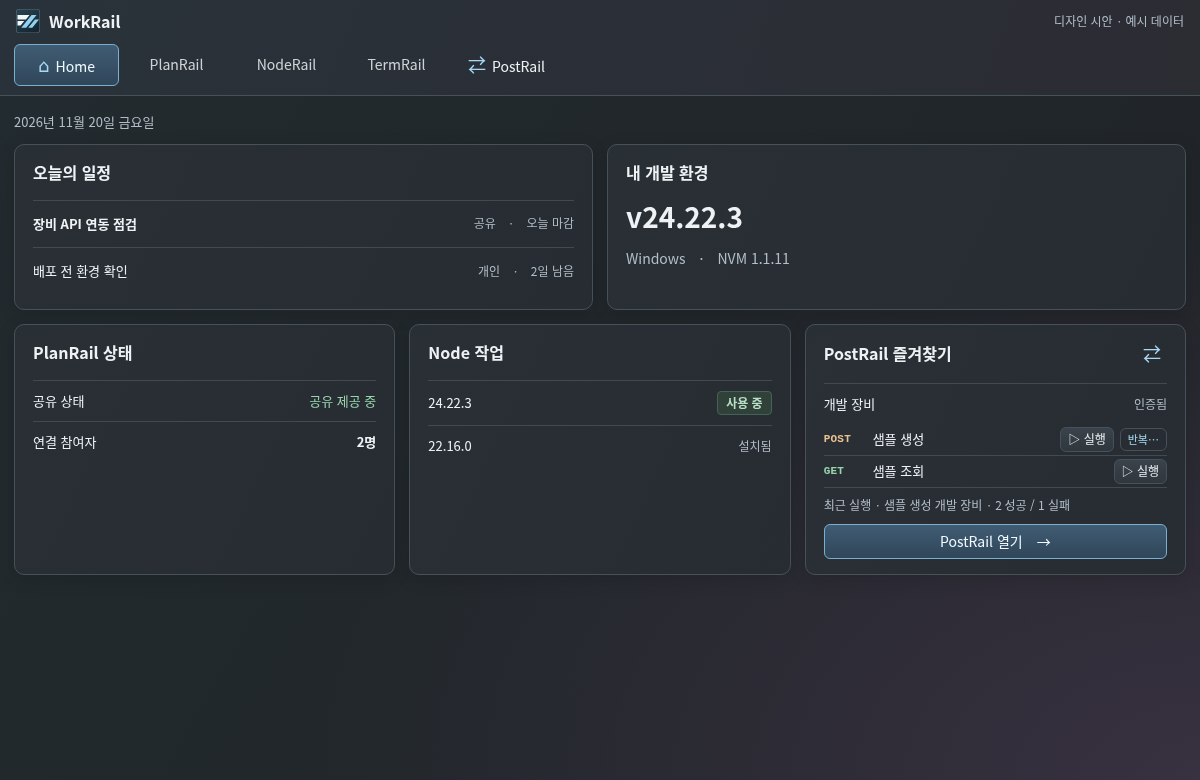
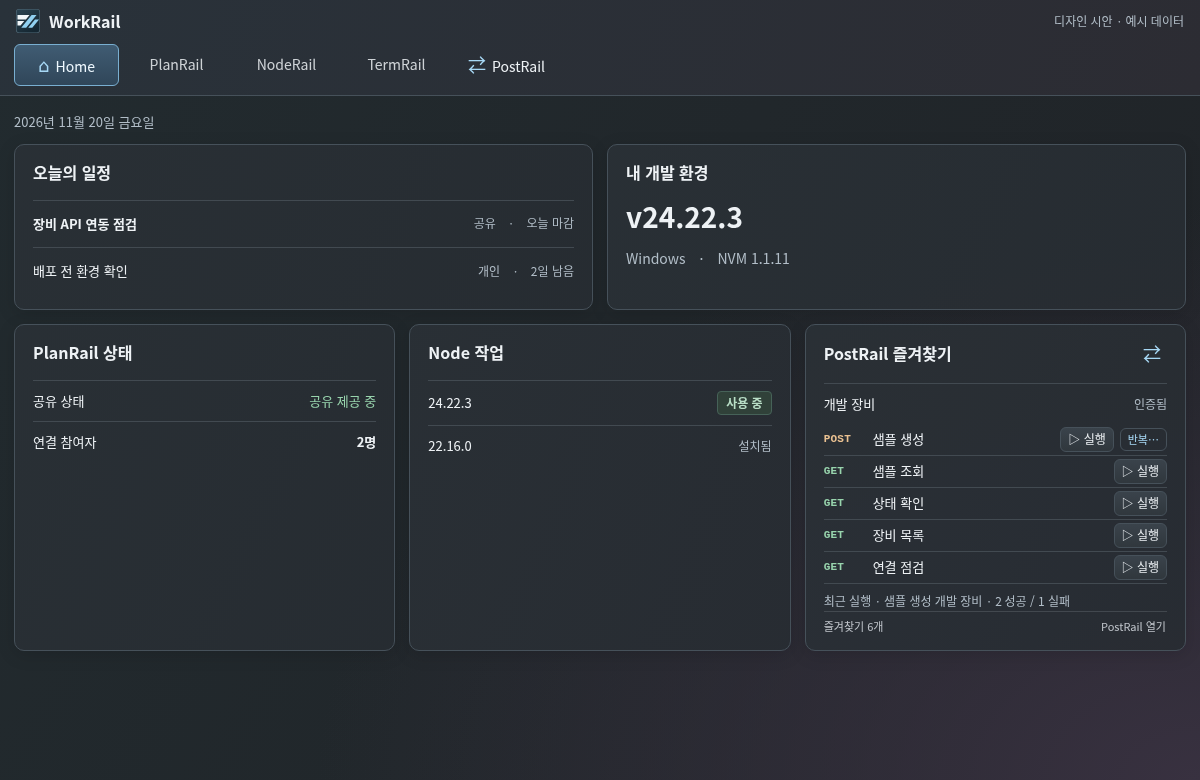
Refine PostRail footer log and compact Home favorites

Changed region(s): [[0.6783, 0.6154, 0.9867, 0.8308], [0.925, 0.8, 0.9558, 0.8308]]

diff --git a/docs/design/mockups/postrail-workspace.html b/docs/design/mockups/postrail-workspace.html
@@ -6,7 +6,7 @@
 <title>WorkRail · PostRail 작업 화면</title>
 <style>
 :root{color-scheme:dark;font:14px/1.55 "Segoe UI","Noto Sans CJK KR",sans-serif;color:#eef2f5;--line:#46515a;--sub:#b2bec8;--sky:#a7d8f5;--green:#98d4ad;--amber:#eac191;--surface:linear-gradient(115deg,#2a3036ed,#272c32ed);--mono:Consolas,"Liberation Mono",monospace}
-*{box-sizing:border-box}body{margin:0;background:radial-gradient(ellipse at 100% 100%,#383140,transparent 52%),linear-gradient(120deg,#222b2f,#202327);min-height:100vh}button,input,select,textarea{font:inherit;color:inherit}button,select,input{border:1px solid var(--line);border-radius:6px;background:#232a30;padding:6px 10px}button,select{cursor:pointer}button{background:linear-gradient(#3a434b,#30373d)}button:hover{border-color:#788d9c}button:disabled{opacity:.55;cursor:default}button:focus-visible,summary:focus-visible,input:focus-visible,textarea:focus-visible,select:focus-visible{outline:2px solid var(--sky);outline-offset:2px}h1,h2,h3,p,pre{margin:0}h1{font-size:21px;letter-spacing:-.6px}h2{font-size:16px}h3{font-size:14px}small,.sub{color:var(--sub)}small{font-size:12px}[hidden]{display:none!important}.row,.brand,nav,.item,.folder summary,.title,.foot,.endpoint,.tabs,.meta,.tools{display:flex;align-items:center;gap:9px}.apart{justify-content:space-between}.auto{margin-left:auto}.brand{padding:9px 16px;font-size:16px;font-weight:700}.brand img{width:24px;height:24px}.demo{font-size:12px;color:var(--sub);font-weight:400}header{background:linear-gradient(110deg,#29323a,#2c2c33);border-bottom:1px solid var(--line)}nav{padding:1px 14px 9px;gap:5px;overflow:auto}nav button{border:1px solid transparent;background:none;min-width:105px;min-height:36px;white-space:nowrap}nav button:disabled{opacity:.84}nav button.active,.primary{background:linear-gradient(#405c73,#304659);border:1px solid #79afd1;color:#eff9ff}.mark{color:var(--sky);font-size:18px;padding-right:6px}main{padding:14px;max-width:1620px;margin:auto}#post{display:grid;grid-template-columns:235px minmax(0,1fr);gap:14px;min-height:calc(100vh - 143px)}aside,.panel,dialog{border:1px solid var(--line);border-radius:10px;background:var(--surface);box-shadow:0 4px 18px #0002}aside{align-self:start;padding:14px 11px}.env{width:100%;margin:8px 0 15px}.asidehead{border-top:1px solid var(--line);padding-top:14px;margin-bottom:8px}.ghost,.more{background:transparent;border-color:transparent;color:var(--sub);padding:3px 5px}.ghost{color:var(--sky);font-size:12px}.folder{border-top:1px solid #3b444d}.folder summary{padding:9px 1px;cursor:pointer;list-style:none;font-size:13px;font-weight:650}.folder summary:before{content:'▸';color:var(--sub)}.folder[open]>summary:before{content:'▾'}.folder summary small{font-weight:400}.item{padding:2px 3px;border:1px solid transparent;border-radius:5px;margin:1px 0 4px;gap:1px}.item.sel{background:#314351;border-color:#506777}.item button:first-child{flex:1;min-width:0;text-align:left;background:none;border:0;font-size:13px;padding:5px 2px;overflow-wrap:anywhere}.verb{display:inline-block;min-width:46px;font:700 11px/1.6 var(--mono);letter-spacing:.25px;color:var(--amber)}.get,.good{color:var(--green)}.delete,.bad{color:#f0a9a4}.workspace{display:flex;flex-direction:column;gap:12px;min-width:0}.panel{overflow:hidden}.compose,.pad{padding:15px 18px}.pathline{color:var(--sub);font-size:12px;margin-bottom:3px}.endpoint{margin:12px 0 9px}.url{min-width:0;flex:1;display:flex;align-items:center;padding:4px 8px;background:#1f262d;border:1px solid #576571;border-radius:6px}.url input{border:0;background:transparent;font:14px var(--mono);width:100%;padding:5px 0}.send{min-width:88px;font-weight:650}.tools,.meta{color:var(--sub);font-size:12px;flex-wrap:wrap}.tools label{display:inline-flex;align-items:center;gap:5px}.tools input[type=text]{width:92px;padding:3px 5px}.tools input[type=checkbox]{accent-color:#90c5e9}.title{border-bottom:1px solid var(--line);padding:10px 16px;background:#30363d}.tabs{gap:17px;padding:0 16px;border-bottom:1px solid #414a52}.tabs button{border:0;background:none;border-radius:0;padding:7px 0;color:var(--sub);font-size:12px}.tabs .active{box-shadow:inset 0 -2px var(--sky);color:#fff}.editor{background:#20262c;min-height:100px;padding:14px 16px}.editor textarea,pre{display:block;width:100%;font:14px/1.7 var(--mono);background:transparent;border:0;color:#c4ddda;resize:vertical;overflow-wrap:anywhere;white-space:pre-wrap}.editor textarea{min-height:82px}.pill{font:600 12px/1.55 "Segoe UI",sans-serif;padding:2px 8px;border:1px solid #466258;border-radius:4px;color:#b8dec6;background:#304139}.foot{position:sticky;bottom:0;z-index:2;padding:6px 15px;min-height:44px;background:#282f35;border-top:1px solid var(--line);font-size:12px}.foot button{font-size:12px}.logarea{max-height:180px;overflow:auto;background:#20262c;padding:10px 16px}.logline{display:block;width:100%;font:13px/1.7 var(--mono);text-align:left;white-space:pre-wrap;border:0;background:none;color:#b6c9d4}.logline[aria-pressed=true]{color:#e6f6ff;background:#354752}.home-grid{display:grid;grid-template-columns:repeat(6,minmax(0,1fr));gap:14px}.big{grid-column:span 3}.widget{grid-column:span 2}.cardhead{padding-bottom:15px}.listrow{display:flex;align-items:center;justify-content:space-between;gap:10px;border-top:1px solid #424a51;padding:10px 0;font-size:13px}.big .listrow{padding:13px 0}.cardbtn{width:100%;margin-top:9px}.date{color:var(--sub);font-size:13px;margin:2px 0 12px}.version{font-size:28px;font-weight:600;margin:10px 0}.widget h2,.big h2{font-size:16px}dialog{padding:0;width:min(520px,94vw);background:#292f35;color:#f2f4f6}dialog::backdrop{background:#11171ba8}.dialogbody{padding:16px 18px;max-height:70vh;overflow:auto}.formrow{display:grid;gap:5px;margin:8px 0}.formrow input,select{min-width:0}.dialogfoot{display:flex;justify-content:flex-end;gap:7px;border-top:1px solid var(--line);padding:11px 16px}.varrow{display:grid;grid-template-columns:1fr 1.2fr auto;gap:6px;margin:6px 0}.varrow input{min-width:0;width:100%}.danger{color:#f1aaa6}.note{color:var(--sub);font-size:12px;margin-top:8px}
+*{box-sizing:border-box}body{margin:0;background:radial-gradient(ellipse at 100% 100%,#383140,transparent 52%),linear-gradient(120deg,#222b2f,#202327);min-height:100vh}button,input,select,textarea{font:inherit;color:inherit}button,select,input{border:1px solid var(--line);border-radius:6px;background:#232a30;padding:6px 10px}button,select{cursor:pointer}button{background:linear-gradient(#3a434b,#30373d)}button:hover{border-color:#788d9c}button:disabled{opacity:.55;cursor:default}button:focus-visible,summary:focus-visible,input:focus-visible,textarea:focus-visible,select:focus-visible{outline:2px solid var(--sky);outline-offset:2px}h1,h2,h3,p,pre{margin:0}h1{font-size:21px;letter-spacing:-.6px}h2{font-size:16px}h3{font-size:14px}small,.sub{color:var(--sub)}small{font-size:12px}[hidden]{display:none!important}.row,.brand,nav,.item,.folder summary,.title,.foot,.endpoint,.tabs,.meta,.tools{display:flex;align-items:center;gap:9px}.apart{justify-content:space-between}.auto{margin-left:auto}.brand{padding:9px 16px;font-size:16px;font-weight:700}.brand img{width:24px;height:24px}.demo{font-size:12px;color:var(--sub);font-weight:400}header{background:linear-gradient(110deg,#29323a,#2c2c33);border-bottom:1px solid var(--line)}nav{padding:1px 14px 9px;gap:5px;overflow:auto}nav button{border:1px solid transparent;background:none;min-width:105px;min-height:36px;white-space:nowrap}nav button:disabled{opacity:.84}nav button.active,.primary{background:linear-gradient(#405c73,#304659);border:1px solid #79afd1;color:#eff9ff}.mark{color:var(--sky);font-size:18px;padding-right:6px}main{padding:14px;max-width:1620px;margin:auto}#post{display:grid;grid-template-columns:235px minmax(0,1fr);gap:14px;min-height:calc(100vh - 143px)}aside,.panel,dialog{border:1px solid var(--line);border-radius:10px;background:var(--surface);box-shadow:0 4px 18px #0002}aside{align-self:start;padding:14px 11px}.env{width:100%;margin:8px 0 15px}.asidehead{border-top:1px solid var(--line);padding-top:14px;margin-bottom:8px}.ghost,.more{background:transparent;border-color:transparent;color:var(--sub);padding:3px 5px}.ghost{color:var(--sky);font-size:12px}.folder{border-top:1px solid #3b444d}.folder summary{padding:9px 1px;cursor:pointer;list-style:none;font-size:13px;font-weight:650}.folder summary:before{content:'▸';color:var(--sub)}.folder[open]>summary:before{content:'▾'}.folder summary small{font-weight:400}.item{padding:2px 3px;border:1px solid transparent;border-radius:5px;margin:1px 0 4px;gap:1px}.item.sel{background:#314351;border-color:#506777}.item button:first-child{flex:1;min-width:0;text-align:left;background:none;border:0;font-size:13px;padding:5px 2px;overflow-wrap:anywhere}.verb{display:inline-block;min-width:46px;font:700 11px/1.6 var(--mono);letter-spacing:.25px;color:var(--amber)}.get,.good{color:var(--green)}.delete,.bad{color:#f0a9a4}.workspace{display:flex;flex-direction:column;gap:12px;min-width:0}.panel{overflow:hidden}.compose,.pad{padding:15px 18px}.pathline{color:var(--sub);font-size:12px;margin-bottom:3px}.endpoint{margin:12px 0 9px}.url{min-width:0;flex:1;display:flex;align-items:center;padding:4px 8px;background:#1f262d;border:1px solid #576571;border-radius:6px}.url input{border:0;background:transparent;font:14px var(--mono);width:100%;padding:5px 0}.send{min-width:88px;font-weight:650}.tools,.meta{color:var(--sub);font-size:12px;flex-wrap:wrap}.tools label{display:inline-flex;align-items:center;gap:5px}.tools input[type=text]{width:92px;padding:3px 5px}.tools input[type=checkbox]{accent-color:#90c5e9}.title{border-bottom:1px solid var(--line);padding:10px 16px;background:#30363d}.tabs{gap:17px;padding:0 16px;border-bottom:1px solid #414a52}.tabs button{border:0;background:none;border-radius:0;padding:7px 0;color:var(--sub);font-size:12px}.tabs .active{box-shadow:inset 0 -2px var(--sky);color:#fff}.editor{background:#20262c;min-height:100px;padding:14px 16px}.editor textarea,pre{display:block;width:100%;font:14px/1.7 var(--mono);background:transparent;border:0;color:#c4ddda;resize:vertical;overflow-wrap:anywhere;white-space:pre-wrap}.editor textarea{min-height:82px}.pill{font:600 12px/1.55 "Segoe UI",sans-serif;padding:2px 8px;border:1px solid #466258;border-radius:4px;color:#b8dec6;background:#304139}.foot{position:sticky;bottom:0;z-index:2;padding:6px 15px;min-height:44px;background:#282f35;border-top:1px solid var(--line);font-size:12px}.foot button{font-size:12px}.home-grid{display:grid;grid-template-columns:repeat(6,minmax(0,1fr));gap:14px}.big{grid-column:span 3}.widget{grid-column:span 2}.cardhead{padding-bottom:15px}.listrow{display:flex;align-items:center;justify-content:space-between;gap:10px;border-top:1px solid #424a51;padding:10px 0;font-size:13px}.big .listrow{padding:13px 0}.cardbtn{width:100%;margin-top:9px}.date{color:var(--sub);font-size:13px;margin:2px 0 12px}.version{font-size:28px;font-weight:600;margin:10px 0}.widget h2,.big h2{font-size:16px}dialog{padding:0;width:min(520px,94vw);background:#292f35;color:#f2f4f6}dialog::backdrop{background:#11171ba8}.dialogbody{padding:16px 18px;max-height:70vh;overflow:auto}.formrow{display:grid;gap:5px;margin:8px 0}.formrow input,select{min-width:0}.dialogfoot{display:flex;justify-content:flex-end;gap:7px;border-top:1px solid var(--line);padding:11px 16px}.varrow{display:grid;grid-template-columns:1fr 1.2fr auto;gap:6px;margin:6px 0}.varrow input{min-width:0;width:100%}.danger{color:#f1aaa6}.note{color:var(--sub);font-size:12px;margin-top:8px}
 @media(max-width:800px){#post{grid-template-columns:185px minmax(0,1fr)}.widget{grid-column:span 3}}@media(max-width:620px){#post{grid-template-columns:1fr}aside{max-height:210px;overflow:auto}.big,.widget{grid-column:1/-1}.endpoint{flex-wrap:wrap}.url{flex-basis:100%}.foot{flex-wrap:wrap}.foot .sub{display:none}.varrow{grid-template-columns:1fr}.meta{gap:3px}nav button{min-width:90px}}
 
 /* PostRail uses the available window height for the two editors. */
@@ -44,7 +44,7 @@ header{flex:none}
 .favorite-row .verb{min-width:43px}
 .favorite-row button{margin-left:auto;padding:2px 7px;font-size:12px}
 .favorite-row .repeat-home{margin-left:0;color:var(--sky);background:transparent;border-color:var(--line);font-size:11px}
-#favorites{max-height:170px;overflow:auto}
+#favorites{min-width:0}
 .home-result{margin-top:8px;font-size:12px;color:var(--sub)}
 /* Match the PlanRail status shell and its dark glass theme. */
 .foot{flex:none;display:flex;align-items:center;flex-wrap:nowrap;gap:10px;min-height:39px;padding:4px 14px;border-top:1px solid var(--rim);background:var(--glass);color:var(--muted);font-size:12px;--rim:#b4bfc449;--glass:rgba(43,46,49,.5);--muted:#c0c5cb}
@@ -52,9 +52,28 @@ header{flex:none}
 .foot button:hover,.foot button[aria-expanded=true]{color:var(--sky)}
 .foot svg{width:16px;height:16px;fill:none;stroke:currentColor;stroke-width:1.6;stroke-linecap:round;stroke-linejoin:round}
 #footStatus{white-space:nowrap;overflow:hidden;text-overflow:ellipsis}
-@media(min-width:621px){body:has(#post:not([hidden])){height:100dvh}#post{overflow:auto}.workspace:has(#drawer:not([hidden])){min-height:520px}}
+@media(min-width:621px){body:has(#post:not([hidden])){height:100dvh}#post{overflow:auto}}
 @media(max-width:620px){#post{grid-template-columns:1fr}.code-pane{min-height:195px}.pane-bar{flex-wrap:wrap;gap:4px 9px}.foot{margin-top:auto}}
 @media(max-width:510px){.foot{gap:6px}}
+
+/* Expanded content and the status strip belong to the same footer. */
+#footer{position:sticky;bottom:0;z-index:2;flex:none}
+#footer .foot{position:static}
+#drawer{background:#292f34;border-top:1px solid #b4bfc449;color:#c0c5cb}
+.drawer-head{display:flex;align-items:center;flex-wrap:wrap;gap:4px 9px;padding:4px 14px;font-size:12px}
+.drawer-head h2{font-size:13px}
+.drawer-head button{padding:1px 5px}
+#log{display:block;margin:0;border:0;border-radius:0;border-top:1px solid #b4bfc430;padding:8px 14px;width:100%;height:clamp(76px,14vh,150px);resize:none;background:#23292e;color:#d1dbe2;font:13px/1.6 var(--mono);white-space:pre;overflow:auto}
+#iterationForm{display:flex;align-items:center;gap:5px}
+#iterationForm input{width:6em;padding:2px 5px;font-size:12px}
+#footer #toggleLog svg{transition:transform .15s}
+#footer #toggleLog[aria-expanded=true] svg{transform:rotate(180deg)}
+@media(prefers-reduced-motion:reduce){#footer #toggleLog svg{transition:none}}
+body:has(#post:not([hidden])){height:100dvh}
+#post{overflow:auto}
+.workrail-widget-meta{display:flex;justify-content:space-between;align-items:baseline;flex-wrap:wrap;gap:4px 8px;padding-top:6px;border-top:1px solid #b4bfc430;color:#c0c5cb;font-size:11px}
+.workrail-link{width:fit-content;justify-self:end;margin:0;padding:0 1px;border:0;background:transparent;color:inherit;font-size:inherit;text-align:start}
+.workrail-link:hover:enabled{background:transparent;color:#f1f2f3;text-decoration:underline}
 </style>
[1 lines of base64/hex data omitted]
 <main id="post">
@@ -65,15 +84,17 @@ header{flex:none}
 <div class="tools"><label id="repeatControl"><input type="checkbox" id="repeat">반복 보내기</label><label id="countControl" hidden>횟수 <input type="text" inputmode="numeric" id="count" value="10"></label><span id="range"></span><button id="saveEdits" class="ghost auto" hidden>변경 저장</button></div></div>
 <div class="panel code-pane"><div class="pane-bar"><h2>요청</h2><div id="reqTabs" class="tabs"><button data-tab="0" class="active">JSON 본문</button><button data-tab="1">헤더</button><button data-tab="2">인증</button></div><small id="auth" class="auto"></small></div><div class="editor" id="reqContent"></div></div>
 <div class="panel code-pane"><div class="pane-bar"><h2>응답</h2><div class="tabs"><button id="bodyTab" class="active">본문</button><button id="hdrTab">헤더</button></div><small class="auto" id="responseOwner"></small><span id="status" class="good"></span></div><div class="editor"><pre id="response"></pre></div></div>
-<section id="drawer" class="panel" hidden><div class="title"><h2>회차별 결과</h2><small id="pageNumber" class="auto"></small><button id="prev" class="ghost">이전</button><button id="next" class="ghost">다음</button><button id="closeLog" aria-label="결과 닫기" class="more">×</button></div><div class="logarea" id="log"></div></section>
 </section></main>
-<footer class="foot" id="footer"><span class="good">●</span><span id="footStatus"></span><button id="toggleLog" class="auto" aria-expanded="false"><svg aria-hidden="true" viewBox="0 0 24 24"><path d="M8 6h12M8 12h12M8 18h12M4 6h.1M4 12h.1M4 18h.1"/></svg>회차별 결과</button><button id="manage"><svg aria-hidden="true" viewBox="0 0 24 24"><path d="M3 7h5m4 0h9M3 17h10m4 0h4"/><circle cx="10" cy="7" r="2"/><circle cx="15" cy="17" r="2"/></svg>환경 관리</button></footer>
+<footer id="footer">
+<section id="drawer" hidden aria-labelledby="drawerLabel"><div class="drawer-head"><h2 id="drawerLabel">회차별 결과</h2><small id="pageNumber"></small><button id="prev" class="ghost">이전</button><button id="next" class="ghost">다음</button><form id="iterationForm" class="auto"><label for="iteration">회차</label><input id="iteration" type="text" inputmode="numeric" required><button type="submit" class="ghost">응답 보기</button></form></div>
+<textarea id="log" aria-label="회차별 결과 로그" readonly wrap="off" spellcheck="false"></textarea></section>
+<div class="foot"><span class="good">●</span><span id="footStatus"></span><button id="toggleLog" aria-controls="drawer" class="auto" aria-expanded="false"><svg aria-hidden="true" viewBox="0 0 24 24"><path d="m5 15 7-7 7 7"/></svg>회차별 결과</button><button id="manage"><svg aria-hidden="true" viewBox="0 0 24 24"><path d="M3 7h5m4 0h9M3 17h10m4 0h4"/><circle cx="10" cy="7" r="2"/><circle cx="15" cy="17" r="2"/></svg>환경 관리</button></div></footer>
 <main id="home" hidden><div class="date">2026년 11월 20일 금요일</div><div class="home-grid">
 <section class="big panel pad"><h2 class="cardhead">오늘의 일정</h2><div class="listrow"><b>장비 API 연동 점검</b><small>공유　·　오늘 마감</small></div><div class="listrow">배포 전 환경 확인<small>개인　·　2일 남음</small></div></section>
 <section class="big panel pad"><h2>내 개발 환경</h2><p class="version">v24.22.3</p><p class="sub">Windows　·　NVM 1.1.11</p></section>
 <section class="widget panel pad"><h2 class="cardhead">PlanRail 상태</h2><div class="listrow">공유 상태<span class="good">공유 제공 중</span></div><div class="listrow">연결 참여자<b>2명</b></div></section>
 <section class="widget panel pad"><h2 class="cardhead">Node 작업</h2><div class="listrow">24.22.3<span class="pill">사용 중</span></div><div class="listrow">22.16.0<small>설치됨</small></div></section>
-<section class="widget panel pad"><div class="row apart cardhead"><h2>PostRail 즐겨찾기</h2><span class="mark" aria-hidden="true">⇄</span></div><div class="listrow"><span id="homeEnv"></span><small id="homeAuth"></small></div><div id="favorites"></div><p class="home-result" role="status"><span id="homeLast"></span> <span id="homeCode"></span></p><button class="cardbtn primary" id="openPost">PostRail 열기　→</button></section></div></main>
+<section class="widget panel pad"><div class="row apart cardhead"><h2>PostRail 즐겨찾기</h2><span class="mark" aria-hidden="true">⇄</span></div><div class="listrow"><span id="homeEnv"></span><small id="homeAuth"></small></div><div id="favorites"></div><p class="home-result" role="status"><span id="homeLast"></span> <span id="homeCode"></span></p><div class="workrail-widget-meta"><span id="favCount"></span><button type="button" class="workrail-link" id="openPost">PostRail 열기</button></div></section></div></main>
 <dialog id="dialog"><div class="title"><h2 id="dialogTitle"></h2><button class="more auto" id="closeDialog" aria-label="닫기">×</button></div><div id="dialogBody" class="dialogbody"></div><div id="actions" class="dialogfoot"></div></dialog>
 <script>
 const $ = id => document.getElementById(id);
@@ -83,8 +104,8 @@ let groups = [group('샘플 API'),group('장비 상태',false),loose];
 function request(name,method,path,folder) {
   return {name,method,url:'${deviceUrl}'+path,folder,index:1n,body:method==='POST'?JSON.stringify({name:'test_${index}',site:'${site}',enabled:true},null,2):''};
 }
-let requests = [request('샘플 생성','POST','/api/samples',groups[0]),request('샘플 조회','GET','/api/samples',groups[0]),request('샘플 삭제','DELETE','/api/samples/42',groups[0]),request('상태 확인','GET','/health',groups[1])];
-requests[0].favorite=true;requests[1].favorite=true;
+let requests = [request('샘플 생성','POST','/api/samples',groups[0]),request('샘플 조회','GET','/api/samples',groups[0]),request('샘플 삭제','DELETE','/api/samples/42',groups[0]),request('상태 확인','GET','/health',groups[1]),request('장비 목록','GET','/devices',groups[1]),request('연결 점검','GET','/ready',groups[1]),request('장비 버전','GET','/version',groups[1])];
+for(const r of requests)r.favorite=r.method!=='DELETE';
 let current = requests[0], requestTab=0, responseHeaders=false;
 const drafts=new WeakMap();
 function values(r){return drafts.get(r)??r}
@@ -100,7 +121,19 @@ const environments = new Map(['개발 장비','QA 장비'].map((name,i)=>[name,{
 const env = () => environments.get($('env').value);
 // Example of a just-finished batch. Subsequent sends only produce local fixture results.
 let run={name:'샘플 생성',env:'개발 장비',method:'POST',start:1n,count:3n,indexed:true,example:true};
+const logPageSize=100n;
 let selected=3n,page=0n;
+function renderLog(){
+  const begin=page*logPageSize+1n;
+  const end=begin+logPageSize-1n<run.count?begin+logPageSize-1n:run.count;
+  const lines=[];
+  for(let i=begin;i<=end;i++)lines.push(i+'회　 '+code(i)+(run.indexed?'　 test_'+(run.start+i-1n):''));
+  const log=$('log');
+  const text=lines.join('\n');
+  if(log.value!==text){log.value=text;log.scrollTop=0}
+  $('pageNumber').textContent=begin+'–'+end+' / '+run.count;
+  $('prev').disabled=page===0n;$('next').disabled=end===run.count;
+}
 current.index=4n;
 function node(tag,txt,cls) {
   const result=document.createElement(tag);
@@ -254,7 +287,9 @@ function homeRepeat(r) {
 }
 function favorites() {
   const list=$('favorites');list.replaceChildren();
-  for(const r of requests.filter(r=>r.favorite)){
+  const saved=groups.flatMap(g=>requests.filter(r=>r.folder===g&&r.favorite));
+  $('favCount').textContent='즐겨찾기 '+saved.length+'개';
+  for(const r of saved.slice(0,5)){
     const row=node('div',undefined,'favorite-row');
     const play=button('▷ 실행',()=>sendRequest(r,1n));play.setAttribute('aria-label',r.name+' 즉시 실행');
     row.append(node('b',r.method,'verb '+r.method.toLowerCase()),node('span',r.name),play);
@@ -275,13 +310,7 @@ function results() {
   const resultName='test_'+(run.start+selected-1n);
   const content=status.startsWith('4')?{message:'이미 등록된 샘플입니다.'}:run.method==='GET'?[{name:'sample'}]:run.indexed?{name:resultName,created:true}:{created:true};
   $('response').textContent=responseHeaders?(status.startsWith('204')?'응답 헤더 없음':'Content-Type: application/json'):status.startsWith('204')?'응답 본문 없음':JSON.stringify(content,null,2);
-  const begin=page*5n+1n,end=begin+4n<run.count?begin+4n:run.count;
-  $('pageNumber').textContent=begin+'–'+end+' / '+run.count;$('prev').disabled=page===0n;$('next').disabled=end===run.count;
-  $('log').replaceChildren();
-  for(let i=begin;i<=end;i++){
-    const b=button(i+'회　 '+code(i)+(run.indexed?'　 test_'+(run.start+i-1n):''),()=>{selected=i;results()},'logline');
-    b.setAttribute('aria-pressed',String(i===selected));$('log').append(b);
-  }
+  if(!$('drawer').hidden)renderLog();
   $('footStatus').textContent='실행 완료　·　'+run.count+'회'+(run.example?'　·　실패 1건':'');
   $('homeEnv').textContent=$('env').value;$('homeAuth').textContent=env().logged?'인증됨':'로그인 필요';
   favorites();$('homeLast').textContent='최근 실행 · '+run.name;$('homeCode').textContent=run.env+' · '+(run.example?'2 성공 / 1 실패':run.count+'회 · '+code(run.count));
@@ -300,9 +329,9 @@ function sendRequest(r,n,input=r){
   // A change of environment never transfers the previous environment's login state.
   env().logged=true;run={name:r.name,env:$('env').value,method:r.method,count:n,start:r.index,indexed:indexUsed(r,input.body),example:false};
   if(run.indexed)r.index+=run.count;
-  selected=run.count;page=(selected-1n)/5n;responseHeaders=false;draw();
+  selected=run.count;$('iteration').value=selected;$('iteration').setCustomValidity('');page=(selected-1n)/logPageSize;responseHeaders=false;draw();
 }
-function drawer(show){$('drawer').hidden=!show;$('toggleLog').setAttribute('aria-expanded',String(show));if(show)$('drawer').scrollIntoView({block:'nearest'})}
+function drawer(show){$('drawer').hidden=!show;$('toggleLog').setAttribute('aria-expanded',String(show));if(show){$('iteration').value=selected;renderLog()}else{$('log').value='';$('toggleLog').focus()}}
 function showHome(home){
   $('home').hidden=!home;$('post').hidden=home;$('footer').hidden=home;$('postTab').classList.toggle('active',!home);$('homeTab').classList.toggle('active',home);window.scrollTo(0,0);
 }
@@ -311,8 +340,17 @@ $('saveEdits').onclick=()=>{Object.assign(current,drafts.get(current));drafts.de
 $('url').oninput=e=>{if(current)edit('url',e.target.value)};$('repeat').onchange=range;$('count').oninput=range;$('send').onclick=()=>sendRequest(current,count(),values(current));
 $('reqTabs').onclick=e=>{if(e.target.dataset.tab!==undefined){requestTab=Number(e.target.dataset.tab);requestPane()}};
 $('bodyTab').onclick=()=>{responseHeaders=false;results()};$('hdrTab').onclick=()=>{responseHeaders=true;results()};
-$('toggleLog').onclick=()=>drawer($('drawer').hidden);$('closeLog').onclick=()=>drawer(false);
-$('prev').onclick=()=>{page--;results()};$('next').onclick=()=>{page++;results()};
+$('toggleLog').onclick=()=>drawer($('drawer').hidden);
+$('prev').onclick=()=>{page--;renderLog()};$('next').onclick=()=>{page++;renderLog()};
+$('iterationForm').onsubmit=e=>{
+  e.preventDefault();const input=$('iteration'),value=input.value.trim();
+  const n=/^\d+$/.test(value)?BigInt(value):0n;
+  input.setCustomValidity(n<1n||n>run.count?'1~'+run.count+' 사이의 회차를 입력하세요.':'');
+  if(!input.reportValidity())return;
+  selected=n;page=(n-1n)/logPageSize;results();
+};
+$('iteration').oninput=e=>e.target.setCustomValidity('');
+$('drawer').onkeydown=e=>{if(e.key==='Escape')drawer(false)};
 $('homeTab').onclick=()=>showHome(true);$('postTab').onclick=$('openPost').onclick=()=>showHome(false);
 draw();showHome(location.hash==='#home');
 </script></html>

diff --git a/docs/design/postrail-workspace.md b/docs/design/postrail-workspace.md
@@ -7,13 +7,17 @@
 1. 왼쪽에서 환경과 저장한 요청을 고른다. 그룹 이름을 누르면 접거나 펼친다. 그룹 옆 메뉴에서는 이름 수정·삭제, 요청 옆 메뉴에서는 이름·URL 수정, 그룹 이동·삭제가 가능하다. 한 단계 그룹과 미분류를 제안한다. 그룹을 지우면 소속 요청은 미분류로 이동하고, 개별 요청 삭제는 이름을 표시해 확인한다. 그룹 이동·이름 수정으로 요청 고유 번호나 다음 인덱스가 달라지지 않는다.
 2. POST도 기본 버튼은 **보내기**다. 한 번 보내려면 횟수를 입력할 필요가 없다. POST에서 **반복 보내기**를 켰을 때만 양의 정수를 입력하고 ‘N회 보내기’를 사용한다. 반복을 끄면 한 건만 발송한다. 인덱스 있는 단건도 번호를 사용한다. GET과 DELETE에는 반복 옵션이 없다.
 3. URL 아래의 전체 가로 공간에서 요청 헤더·본문·인증을 편집한다. 응답은 바로 아래에서 본문·헤더를 전환한다. 응답 상단에는 실제 실행한 요청명·환경·선택된 회차를 표시해 편집기의 현재 환경과 구별한다.
-4. PlanRail처럼 페이지 하단에 상태 바를 둔다. 왼쪽에는 실행 상태와 건수, 오른쪽 끝에는 **환경 관리**, 그 왼쪽에는 **회차별 결과**가 있다. 결과 목록은 기본으로 접는다. 열면 읽기 전용 로그 형태에서 회차를 선택해 위 응답을 전환한다. 긴 실행은 나누어 불러온다. 닫아도 실행과 선택 응답을 유지한다. 실패나 서버 반영 여부가 불명확한 회차 수는 닫힌 상태에서도 알 수 있게 한다.
+4. PlanRail처럼 페이지 하단에 상태 바를 둔다. 왼쪽에는 실행 상태와 건수, 오른쪽 끝에는 **환경 관리**, 그 왼쪽에는 **회차별 결과**가 있다. 접힌 상태에서 ‘회차별 결과’를 누르면 하단 상태 줄은 제자리에 있고, 그 바로 위로 footer 전체 너비의 로그가 펼쳐진다. 로그는 복사할 수 있는 읽기 전용 일반 텍스트다. 회차당 한 줄에 번호·상태·사용한 인덱스를 표시한다. 특정 응답은 로그 도구 줄에 회차 번호를 입력하고 ‘응답 보기’를 눌러 확인한다. 같은 버튼이나 Escape로 접어도 실행과 선택 응답을 유지한다. 실패나 서버 반영 여부가 불명확한 회차 수는 닫힌 상태에서도 알 수 있게 한다.
 
 ### 편집 공간과 하단 상태 바
 
 URL, 요청 본문과 응답 본문은 14px 고정폭을 사용한다. PostRail 페이지 안에서만 탐색·옵션 문자를 11~13px로 줄이고 각 영역의 제목과 탭을 한 줄에 둔다. 요청과 응답 코드 영역이 남은 세로 공간을 나눠 사용한다. 1200×780 시안에서 URL 입력 너비는 724px에서 793px, 요청·응답 코드 영역 높이는 각각 110px·123px에서 약 211px로 늘어났다. 좁은 창에서는 제목 줄이 줄바꿈되고 코드 영역은 스크롤할 수 있다.
 
 하단 상태 바는 PlanRail과 같은 외곽 스타일을 공유하도록 설계한다. 최소 높이 39px, 상하 4px·좌우 14px 여백, 간격 10px(510px 이하 6px), 12px 글자, 1px 상단 선과 같은 유리 배경이다. 우측 ‘회차별 결과’와 ‘환경 관리’는 아이콘과 글자를 한 줄에 두며, 긴 상태는 말줄임한다. [PlanRail 상태 바 CSS](../../src/renderer/workrail/status.css) · [테마 색상](../../src/renderer/forest-crystal.css)
+
+로그를 접어 두면 화면용 문자열을 만들지 않는다. 열었을 때만 회차 범위를 읽어 텍스트 영역 하나를 갱신한다. 시안에서는 100줄씩 이전·다음으로 이동한다. 제품 구현 시에도 현재 페이지의 요약만 읽고, 응답 본문은 회차를 지정할 때 별도로 조회한다.
+
+![footer에 펼친 회차별 결과](mockups/postrail-footer-log.png)
 
 ![PostRail 작업 화면](mockups/postrail-editor.png)
 
@@ -32,9 +36,9 @@ URL, 요청 본문과 응답 본문은 14px 고정폭을 사용한다. PostRail 
 
 ## Home에서 이어가기
 
-저장한 요청 옆의 **☆**를 누르면 **★**가 되고 Home의 **PostRail 즐겨찾기** 위젯에 같은 요청이 나타난다. 별표는 저장 요청의 속성이다. 이름이나 그룹을 바꿔도 유지하고, 해제하거나 요청을 삭제하면 위젯에도 즉시 반영한다. 그룹만 삭제해 미분류로 이동한 요청의 별표는 유지한다.
+저장한 요청 옆의 **☆**를 누르면 **★**가 되고 Home의 **PostRail 즐겨찾기** 위젯의 표시 대상이 된다. 별표는 저장 요청의 속성이다. 이름이나 그룹을 바꿔도 유지하고, 해제하거나 요청을 삭제하면 위젯에도 즉시 반영한다. 그룹만 삭제해 미분류로 이동한 요청의 별표는 유지한다.
 
-위젯 상단에는 대상 환경과 인증 상태를, 각 행에는 HTTP 메서드·요청 이름·**실행** 버튼을 표시한다. 실행하면 Home에 머물며 최근 실행 요약을 본다. **PostRail 열기**로 회차별 결과·응답을 확인한다. 즐겨찾기가 없으면 별표 등록 위치를 안내한다. 목록은 위젯 안에서 스크롤한다.
+위젯 상단에는 대상 환경과 인증 상태를, 각 행에는 HTTP 메서드·요청 이름·**실행** 버튼을 표시한다. 실행하면 Home에 머물며 최근 실행 요약을 본다. 하단 요약 줄에는 전체 즐겨찾기 수와 **PostRail 열기**를 둔다. PlanRail 상태 위젯의 ‘공유 설정에서 관리’와 같은 텍스트 링크형 버튼으로 현재 창의 도구를 전환한다. [기존 위젯](../../src/renderer/workrail/SharingWidget.tsx) · [공통 링크 스타일](../../src/renderer/workrail.css) 즐겨찾기가 없으면 별표 등록 위치를 안내한다. Home에서는 저장한 요청 목록 순서(그룹 순서, 그룹 안의 요청 순서)로 최대 5개를 표시한다. 여섯 번째 이후 항목은 별표를 유지하고 PostRail 목록에서 접근한다. 앞 항목을 해제하거나 삭제하면 다음 항목이 표시된다.
 
 - **확정한 실행 기준**. 위젯에 표시된 현재 PostRail 환경으로 보낸다. 모든 즐겨찾기의 ‘실행’은 단건이다. POST에는 ‘반복…’을 함께 두어 Home에서도 횟수를 명시할 수 있다. 펼치면 요청명·환경·횟수·인덱스 범위를 확인하고 ‘N회 보내기’를 누른다. 각 번의 기본값은 1이며 취소하면 발송하지 않는다. GET·DELETE는 단건만 보낸다. 편집 중인 URL·본문·반복 횟수는 가져오지 않는다. 인덱스가 있으면 두 화면에서 같은 다음 번호를 쓰고 기존 순차 발송·중지 규칙을 따른다.
 - **공통 실행 규칙**. Home과 PostRail이 인증 상태, 요청별 다음 번호, 현재 또는 마지막 실행 결과를 공유한다. 이미 전송 중이면 양쪽 모두 새 실행을 시작할 수 없다. 필수 값 누락·인증 실패는 Home에서 원인을 알리고 편집기로 연결한다. 실제 HTTP 대상과 평문 경고가 필요한 요청은 기존 Q9처럼 전송 전에 해당 주소를 보여 준다.
@@ -44,4 +48,4 @@ URL, 요청 본문과 응답 본문은 14px 고정폭을 사용한다. PostRail 
 
 ## 시안 확인 순서
 
-기본 ‘보내기’와 POST 반복 옵션을 비교한다. 우측 하단에서 결과를 열고 예시 2회차의 409를 눌러 응답이 달라지는지 확인한다. 환경 관리에서 변수를 추가하고 환경을 변경한다. 그룹을 추가한 뒤 요청을 옮기고 그룹을 삭제해 미분류 목록을 확인한다. 상단 Home과 위젯의 ‘PostRail 열기’로 두 화면을 오간다. 시안에는 브라우저에서만 유지되는 예시 데이터가 들어 있으며 서버 연결이나 실제 로그인은 수행하지 않는다.
+기본 ‘보내기’와 POST 반복 옵션을 비교한다. 우측 하단에서 결과를 열고 텍스트 로그의 2회차에서 409를 찾은 뒤 회차에 2를 입력하고 ‘응답 보기’를 눌러 상세 응답을 확인한다. 환경 관리에서 변수를 추가하고 환경을 변경한다. 그룹을 추가한 뒤 요청을 옮기고 그룹을 삭제해 미분류 목록을 확인한다. 상단 Home과 위젯의 ‘PostRail 열기’로 두 화면을 오간다. 시안에는 브라우저에서만 유지되는 예시 데이터가 들어 있으며 서버 연결이나 실제 로그인은 수행하지 않는다.

diff --git a/docs/wayfinder/STATUS.md b/docs/wayfinder/STATUS.md
@@ -1,5 +1,7 @@
 # 진행 상태
 
+2026-11-20 PostRail 후속 시안에 하단에서 펼치는 일반 텍스트 로그, Home 즐겨찾기 최대 5개와 공유 설정 관리 링크 스타일을 반영했다. [설계와 두 화면](../design/postrail-workspace.md) · 제품 구현 전.
+
 2026-11-20 PostRail 화면을 코드 편집 중심으로 조정하고 PlanRail과 같은 하단 상태 바 및 Home 즐겨찾기 즉시 실행을 [후속 설계와 시안](../design/postrail-workspace.md)에 반영했다. Home에서는 현재 환경으로 실행하며 POST는 기본 단건 및 명시적 반복 실행을 모두 지원하는 설계로 합의했다. 제품 구현 전이다.
 
 2026-11-20 PostRail 후속 설계 검토. 저장 요청 그룹, 기본 단건 보내기, 환경 관리·회차 결과 footer, 요청 아래 응답, Home 위젯과 환경별 토큰 재사용을 [설계 및 시안](../design/postrail-workspace.md)에 반영했다. 제품 구현 전이다.
